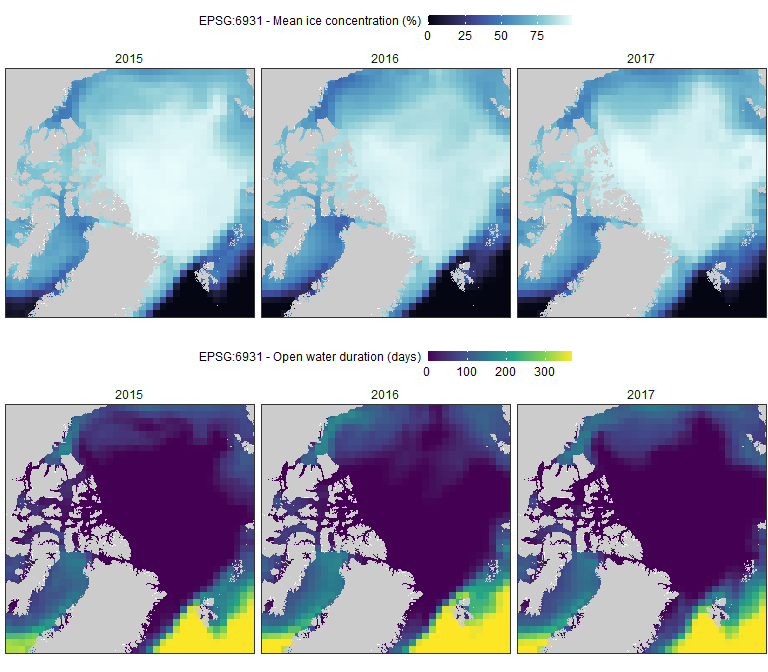
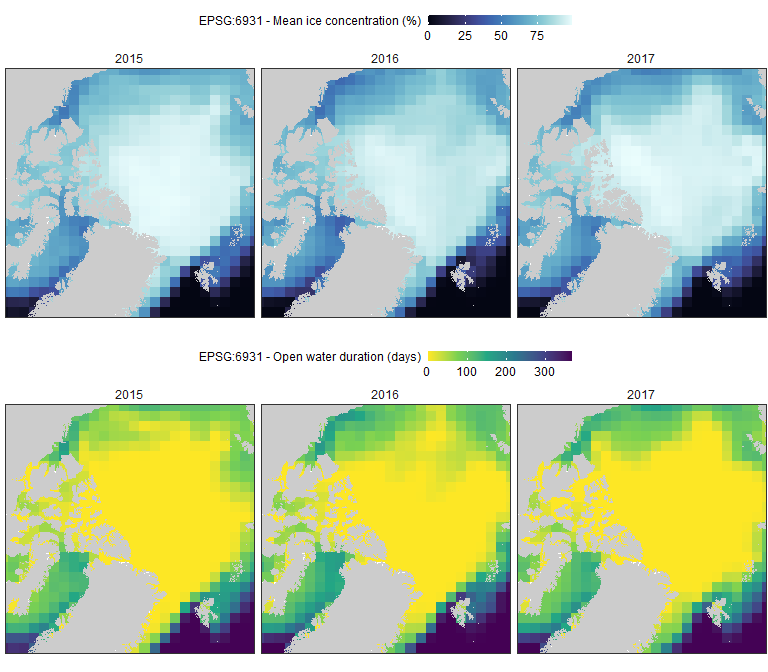
Added cell resolution to gridded dataframes.

diff --git a/PanArctic_DSL_remote_sensing.md b/PanArctic_DSL_remote_sensing.md
@@ -1,7 +1,7 @@
 PanArctic DSL - Remote sensing
 ================
 [Pierre Priou](mailto:pierre.priou@mi.mun.ca)
-2022/02/09 at 14:05
+2022/02/23 at 11:31
 
 # Package loading
 
@@ -212,7 +212,7 @@ website](https://nsidc.org/data/ease/). Because “raw” sea ice data has a
 projection (150 km \* 150 km).
 
 ``` r
-cell_res <- 100 # Cell resolution in km
+cell_res <- 150 # Cell resolution in km
 arctic_laea <- raster(extent(-2700, 2700, -2700, 2700), crs = "EPSG:6931") # Seaice projection
 projection(arctic_laea) <- gsub("units=m", "units=km", projection(arctic_laea)) # Convert proj unit from m to km
 res(arctic_laea) <- c(cell_res, cell_res) # Define the 100 km cell resolution
@@ -243,6 +243,9 @@ for (i in seq(2015, 2017, 1)) { # Data gridding
     dplyr::select(year, area, lat, lon, xc, yc, seaice_duration, openwater_duration, mean_ice_conc)
   seaice_grid_laea <- bind_rows(seaice_grid_laea, seaice_tmp_laea)
 }
+seaice_grid_laea <- seaice_grid_laea %>%
+  mutate(cell_res = cell_res) # Add cell resolution to dataframe
+
 rm(seaice_tmp, seaice_tmp_laea, i, cell_res) # Remove temporary data
 ```
 
@@ -271,7 +274,7 @@ plot_grid(seaice_grid_laea %>% # Map mean ice concentration
             filter(is.na(mean_ice_conc) == F) %>% # Remove land
             ggplot() +
             geom_tile(aes(x = xc, y = yc, fill = openwater_duration)) +
-            scale_fill_viridis_c("EPSG:6931 - Open water duration (days)") +
+            scale_fill_viridis_c("EPSG:6931 - Open water duration (days)", direction = -1) +
             geom_polygon(data = coast_10m_laea, aes(x = xc, y = yc, group = group), fill = "grey80") +
             facet_wrap(~ year, ncol = 3) +
             coord_fixed(xlim = c(-2600, 1100), ylim = c(-1800, 1900), expand = F) + 

diff --git a/PanArctic_DSL_acoustics.md b/PanArctic_DSL_acoustics.md
@@ -1,7 +1,7 @@
 PanArctic DSL - Acoustic gridding
 ================
 [Pierre Priou](mailto:pierre.priou@mi.mun.ca)
-2022/02/09 at 14:01
+2022/02/23 at 11:28
 
 # Package loading
 
@@ -149,7 +149,7 @@ More info on this projection can be found on the [NSIDC
 website](https://nsidc.org/data/ease/).
 
 ``` r
-cell_res <- 100 # Cell resolution in km
+cell_res <- 150 # Cell resolution in km
 arctic_laea <- raster(extent(-2700, 2700, -2700, 2700), crs = "EPSG:6931") # Seaice projection
 projection(arctic_laea) <- gsub("units=m", "units=km", projection(arctic_laea)) # Convert proj unit from m to km
 res(arctic_laea) <- c(cell_res, cell_res) # Define the 100 km cell resolution
@@ -181,12 +181,13 @@ for (i in seq(2015, 2017, 1)) { # Data gridding
     dplyr::select(year, area, lat, lon, xc, yc, NASC_int, CM) 
   SA_grid_laea <- bind_rows(SA_grid_laea, SA_tmp_laea)
 }
-rm(SA_tmp, SA_tmp_laea, i, cell_res) # Remove temporary data
+rm(SA_tmp, SA_tmp_laea, i) # Remove temporary data
 
 SA_grid_laea <- SA_grid_laea %>% # Calculate normalized backscatter anomalies
   group_by(year, area) %>%
-  mutate(mean_NASC_area_year = mean(NASC_int),
-         sd_NASC_area_year = sd(NASC_int)) %>%
+  mutate(cell_res = cell_res, # Add cell resolution to dataframe
+         mean_NASC_area_year = mean(NASC_int), # Calculate mean NASC per area per year
+         sd_NASC_area_year = sd(NASC_int)) %>% # Calculate standard deviation of NASC per area per year
   ungroup() %>%
   mutate(NASC_anomaly = (NASC_int - mean_NASC_area_year) / sd_NASC_area_year,  # Calculate normalized backscatter anomaly
          NASC_anomaly_d = factor(case_when(NASC_anomaly < -1 ~ "<-1", # Discretize colour scale

diff --git a/PanArctic_DSL_CTD.md b/PanArctic_DSL_CTD.md
@@ -1,7 +1,7 @@
 PanArctic DSL - CTD
 ================
 [Pierre Priou](mailto:pierre.priou@mi.mun.ca)
-2022/02/09 at 14:03
+2022/02/23 at 11:27
 
 # Package loading
 
@@ -119,7 +119,7 @@ More info on this projection can be found on the [NSIDC
 website](https://nsidc.org/data/ease/).
 
 ``` r
-cell_res <- 100 # Cell resolution in km
+cell_res <- 150 # Cell resolution in km
 arctic_laea <- raster(extent(-2700, 2700, -2700, 2700), crs = "EPSG:6931") # Seaice projection
 projection(arctic_laea) <- gsub("units=m", "units=km", projection(arctic_laea)) # Convert proj unit from m to km
 res(arctic_laea) <- c(cell_res, cell_res) # Define the 100 km cell resolution
@@ -155,6 +155,9 @@ for (i in seq(2015, 2017, 1)) { # Data gridding
     dplyr::select(year, area, lat, lon, xc, yc, cons_temp, abs_sal)
   CTD_grid_laea <- bind_rows(CTD_grid_laea, CTD_tmp_laea)
 }
+CTD_grid_laea <- CTD_grid_laea %>%
+  mutate(cell_res = cell_res) # Add cell resolution to dataframe
+
 rm(CTD_tmp, CTD_tmp_laea, i, cell_res) # Remove temporary data
 ```
 
